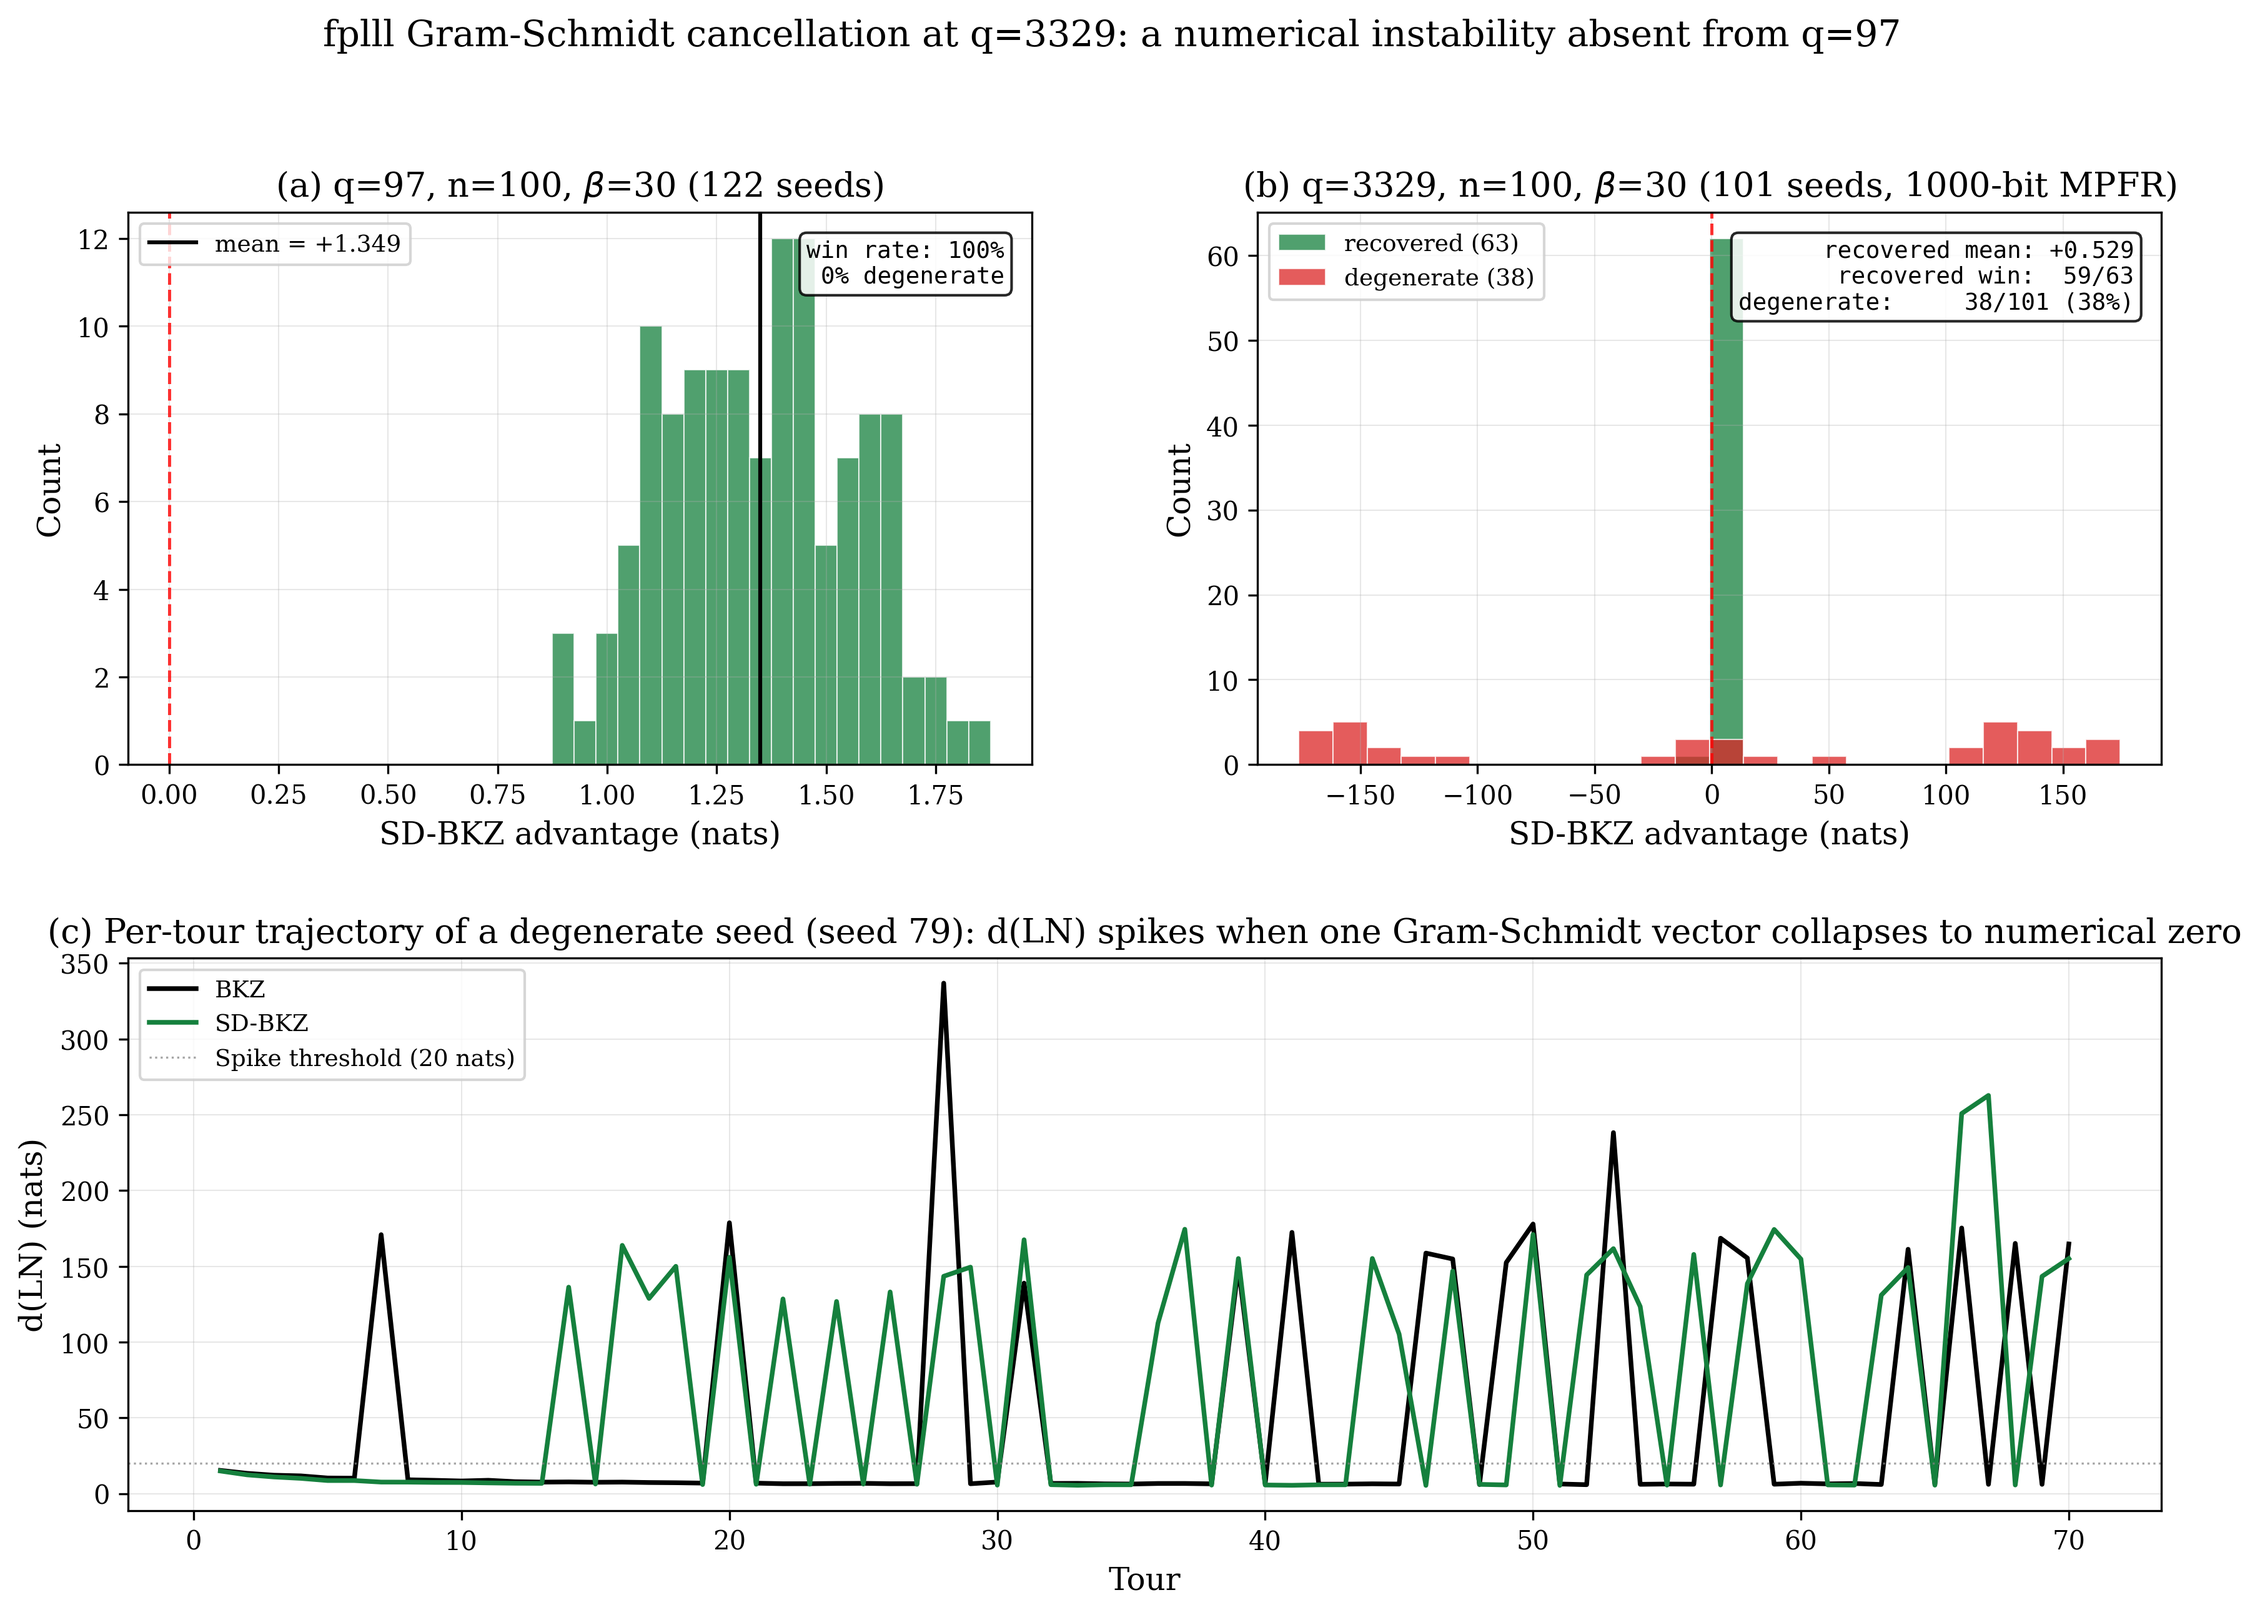
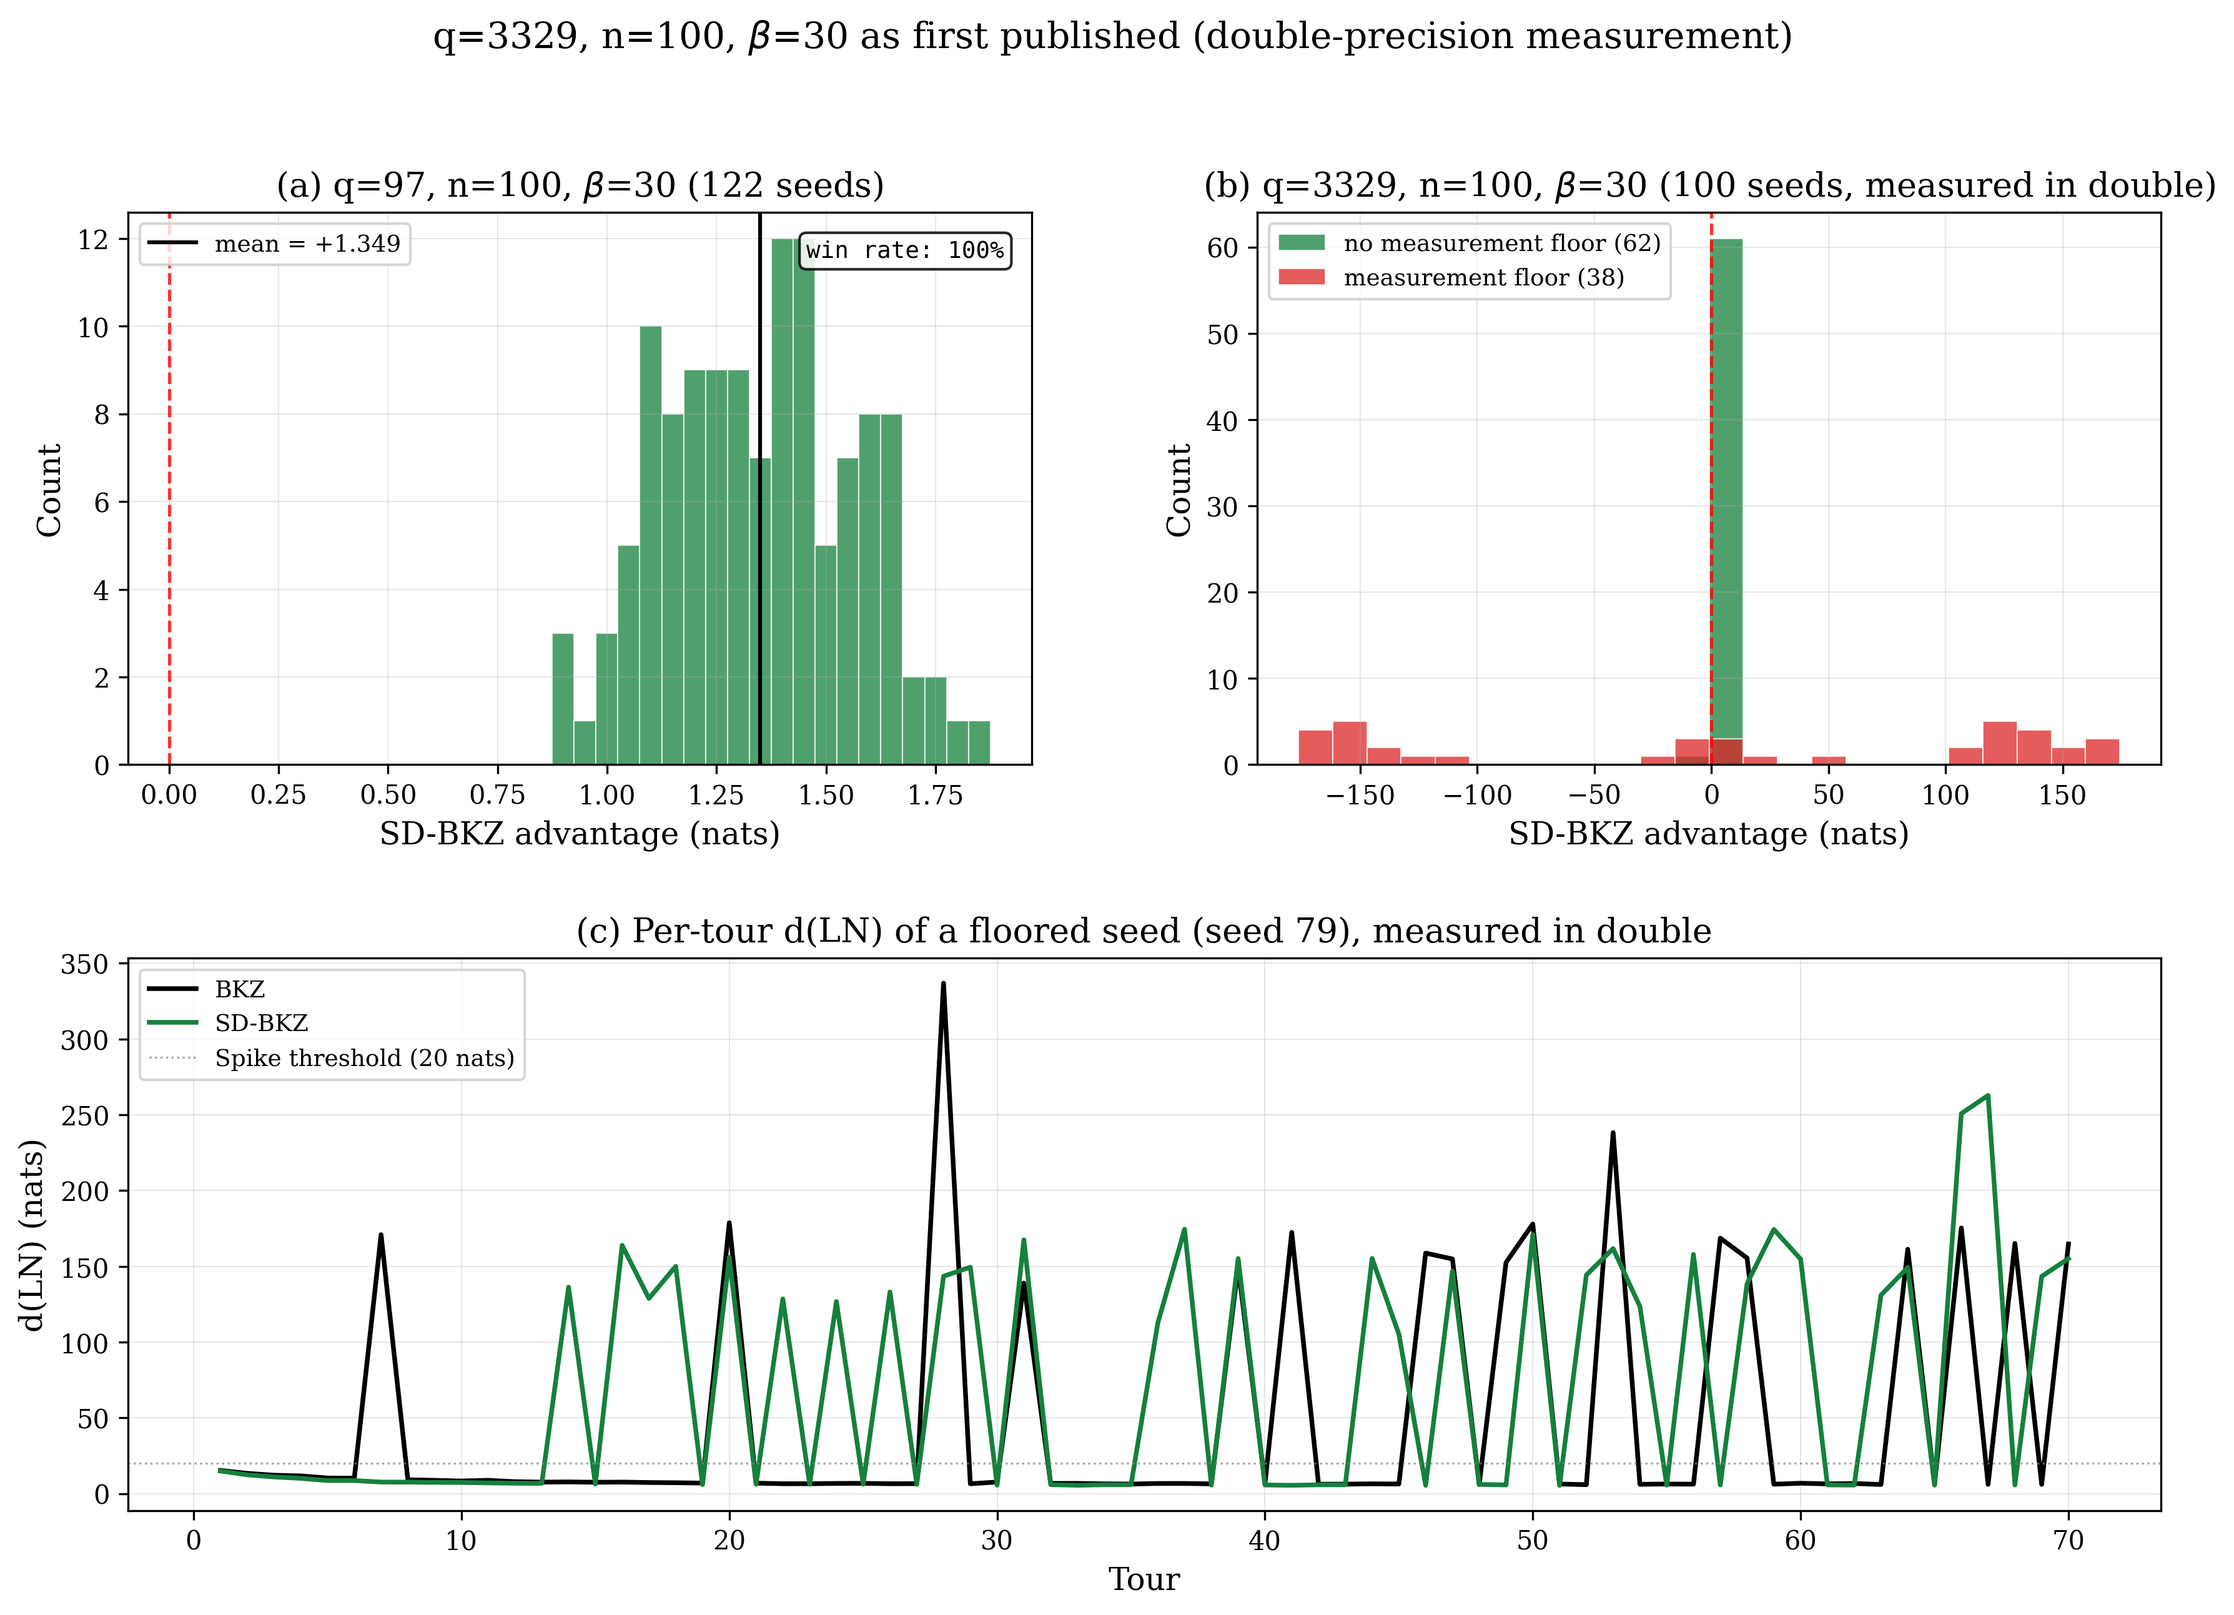
fix: Paper 1 Figure 12 labels describe the double measurement

diff --git a/analysis/plots/q3329_degeneracy.py b/analysis/plots/q3329_degeneracy.py
@@ -1,9 +1,10 @@
-"""Figure 13: q=3329 fplll Gram-Schmidt cancellation.
+"""Figure 12: q=3329, n=100, β=30 as first published.
 
-Three panels: q=97 reference distribution at the n=100 β=30 peak, the
-q=3329 distribution showing the bimodal clean/degenerate failure mode
-(100 seeds: 10 cloud + 45 primary + 45 secondary machine), and an
-example per-tour trajectory of one degenerate seed.
+Three panels: the q=97 reference distribution at n=100 β=30, the q=3329
+distribution (100 seeds) split by whether the double-precision
+measurement GSO hit its floor, and the per-tour trajectory of one
+floored seed. The floors are a property of the double measurement, not
+of the reduction; measured at 1000 bits all 100 seeds are clean.
 """
 import os
 
@@ -15,11 +16,11 @@ from .._style import COLORS
 
 
 def fig_q3329_degeneracy(groups, output_dir="."):
-    """Three-panel figure showing the q=3329 fplll cancellation.
+    """Three-panel figure of the q=3329 data as measured in double.
 
-    (a) q=97 distribution at n=100 β=30: 100 seeds, tight cluster
-    (b) q=3329 distribution at n=100 β=30: 100 seeds, bimodal failure
-    (c) Per-tour d(LN) trajectory for one degenerate seed showing the spike
+    (a) q=97 distribution at n=100 β=30
+    (b) q=3329 distribution at n=100 β=30: 100 seeds, by measurement floor
+    (c) Per-tour d(LN) trajectory of one floored seed
 
     Args:
         groups: Output of load_all_seeds() (used for q=97 group only).
@@ -32,28 +33,25 @@ def fig_q3329_degeneracy(groups, output_dir="."):
         return
     q97_advs = np.array([s["advantage"] for s in q97_seeds])
 
-    # q=3329: v1.3 manifest query for the n=100 β=30 p=1000 mt=70
-    # campaign (paper §8 headline 100-seed dataset, 10 AWS-Batch +
-    # 45 Intel 13900K + 45 AMD 9950X3D). Dedup by (n, β, seed) with
-    # non-cloud preference mirrors the legacy raw/cloud-first globber
-    # behaviour; fat companions skipped by default.
+    # q=3329: manifest query for the n=100 β=30 p=1000 mt=70 cell.
+    # Dedup by (n, β, seed) with non-cloud preference; fat companions
+    # skipped by default.
     q3329_groups = load_all_seeds(
         campaign="q3329", n=100, beta=30, q=3329,
         precision=1000, max_tours=70,
     )
-    q3329_seeds = q3329_groups.get((100, 30), [])
+    # The paper's cell is seeds 1-100. The manifest cell also holds
+    # seed 101, a later single-seed probe that is not part of it.
+    q3329_seeds = [s for s in q3329_groups.get((100, 30), [])
+                   if 1 <= s["seed"] <= 100]
     if not q3329_seeds:
         print("  No q=3329 n=100 β=30 data available")
         return
 
-    # Degeneracy detection threshold. A clamp from get_r returning ≤ 0
-    # substitutes 1e-300, giving log(1e-300) ≈ −690 nats. Clean seeds
-    # stay within a few nats of zero across all positions. −100 nats is
-    # well below any legitimate value and well above any clamped one, so
-    # the threshold is not sensitive to the exact magnitude.
-    # A more robust alternative is to read results/clamp_events.jsonl,
-    # the side log emitted by scripts/sweep_parallel.py's _log_clamp
-    # helper whenever get_r returns a non-positive value.
+    # Measurement-floor threshold. When the double-precision measurement
+    # GSO returns r_ii ≤ 0 the stored log-norm is the floor −345.388.
+    # Unfloored log-norms stay within a few nats of zero, so −100 nats
+    # separates the two and is not sensitive to the exact magnitude.
     DEGENERACY_THRESHOLD_LN = -100.0
 
     q3329_data = []
@@ -87,16 +85,15 @@ def fig_q3329_degeneracy(groups, output_dir="."):
     ax_a.set_title(f"(a) q=97, n=100, $\\beta$=30 ({len(q97_advs)} seeds)")
     ax_a.legend(fontsize=9, loc="upper left")
     ax_a.text(0.97, 0.95,
-              "win rate: 100%\n0% degenerate",
+              "win rate: 100%",
               transform=ax_a.transAxes, fontsize=9, ha="right", va="top",
               family="monospace",
               bbox=dict(boxstyle="round,pad=0.3", facecolor="white", alpha=0.85))
 
-    # Panel (b) — q=3329 distribution showing bimodal failure
+    # Panel (b) — q=3329 distribution, split by measurement floor
     clean = [d["advantage"] for d in q3329_data if not d["is_degen"]]
     degen = [d["advantage"] for d in q3329_data if d["is_degen"]]
     n_total = len(q3329_data)
-    n_degen = len(degen)
 
     if degen:
         bins = np.linspace(min(min(degen), -10) - 5, max(max(degen), 10) + 5, 25)
@@ -105,29 +102,18 @@ def fig_q3329_degeneracy(groups, output_dir="."):
 
     ax_b.hist(clean, bins=bins, color=COLORS["sdbkz"], alpha=0.75,
               edgecolor="white", linewidth=0.5,
-              label=f"recovered ({len(clean)})")
+              label=f"no measurement floor ({len(clean)})")
     ax_b.hist(degen, bins=bins, color="#dc2626", alpha=0.75,
               edgecolor="white", linewidth=0.5,
-              label=f"degenerate ({len(degen)})")
+              label=f"measurement floor ({len(degen)})")
     ax_b.axvline(0, color="red", linewidth=1.2, linestyle="--", alpha=0.8)
     ax_b.set_xlabel("SD-BKZ advantage (nats)")
     ax_b.set_ylabel("Count")
     ax_b.set_title(f"(b) q=3329, n=100, $\\beta$=30 ({n_total} seeds, "
-                   f"1000-bit MPFR)")
+                   f"measured in double)")
     ax_b.legend(fontsize=9, loc="upper left")
 
-    if clean:
-        clean_mean = np.mean(clean)
-        clean_win = sum(1 for a in clean if a > 0)
-        ax_b.text(0.97, 0.95,
-                  f"recovered mean: {clean_mean:+.3f}\n"
-                  f"recovered win:  {clean_win}/{len(clean)}\n"
-                  f"degenerate:     {n_degen}/{n_total} ({n_degen/n_total*100:.0f}%)",
-                  transform=ax_b.transAxes, fontsize=9, ha="right", va="top",
-                  family="monospace",
-                  bbox=dict(boxstyle="round,pad=0.3", facecolor="white", alpha=0.85))
-
-    # Panel (c) — per-tour trajectory of one degenerate seed
+    # Panel (c) — per-tour trajectory of one floored seed
     if q3329_data:
         degen_seeds = [d for d in q3329_data if d["is_degen"]]
         if degen_seeds:
@@ -142,14 +128,12 @@ def fig_q3329_degeneracy(groups, output_dir="."):
                          alpha=0.7, label="Spike threshold (20 nats)")
             ax_c.set_xlabel("Tour")
             ax_c.set_ylabel("d(LN) (nats)")
-            ax_c.set_title(f"(c) Per-tour trajectory of a degenerate seed "
-                           f"(seed {best['seed']}): "
-                           f"d(LN) spikes when one Gram-Schmidt vector "
-                           f"collapses to numerical zero")
+            ax_c.set_title(f"(c) Per-tour d(LN) of a floored seed "
+                           f"(seed {best['seed']}), measured in double")
             ax_c.legend(fontsize=9, loc="upper left")
 
-    fig.suptitle("fplll Gram-Schmidt cancellation at q=3329: a numerical "
-                 "instability absent from q=97",
+    fig.suptitle("q=3329, n=100, $\\beta$=30 as first published "
+                 "(double-precision measurement)",
                  fontsize=14, y=0.995)
     path = os.path.join(output_dir, "q3329_degeneracy.png")
     fig.savefig(path, bbox_inches="tight")
